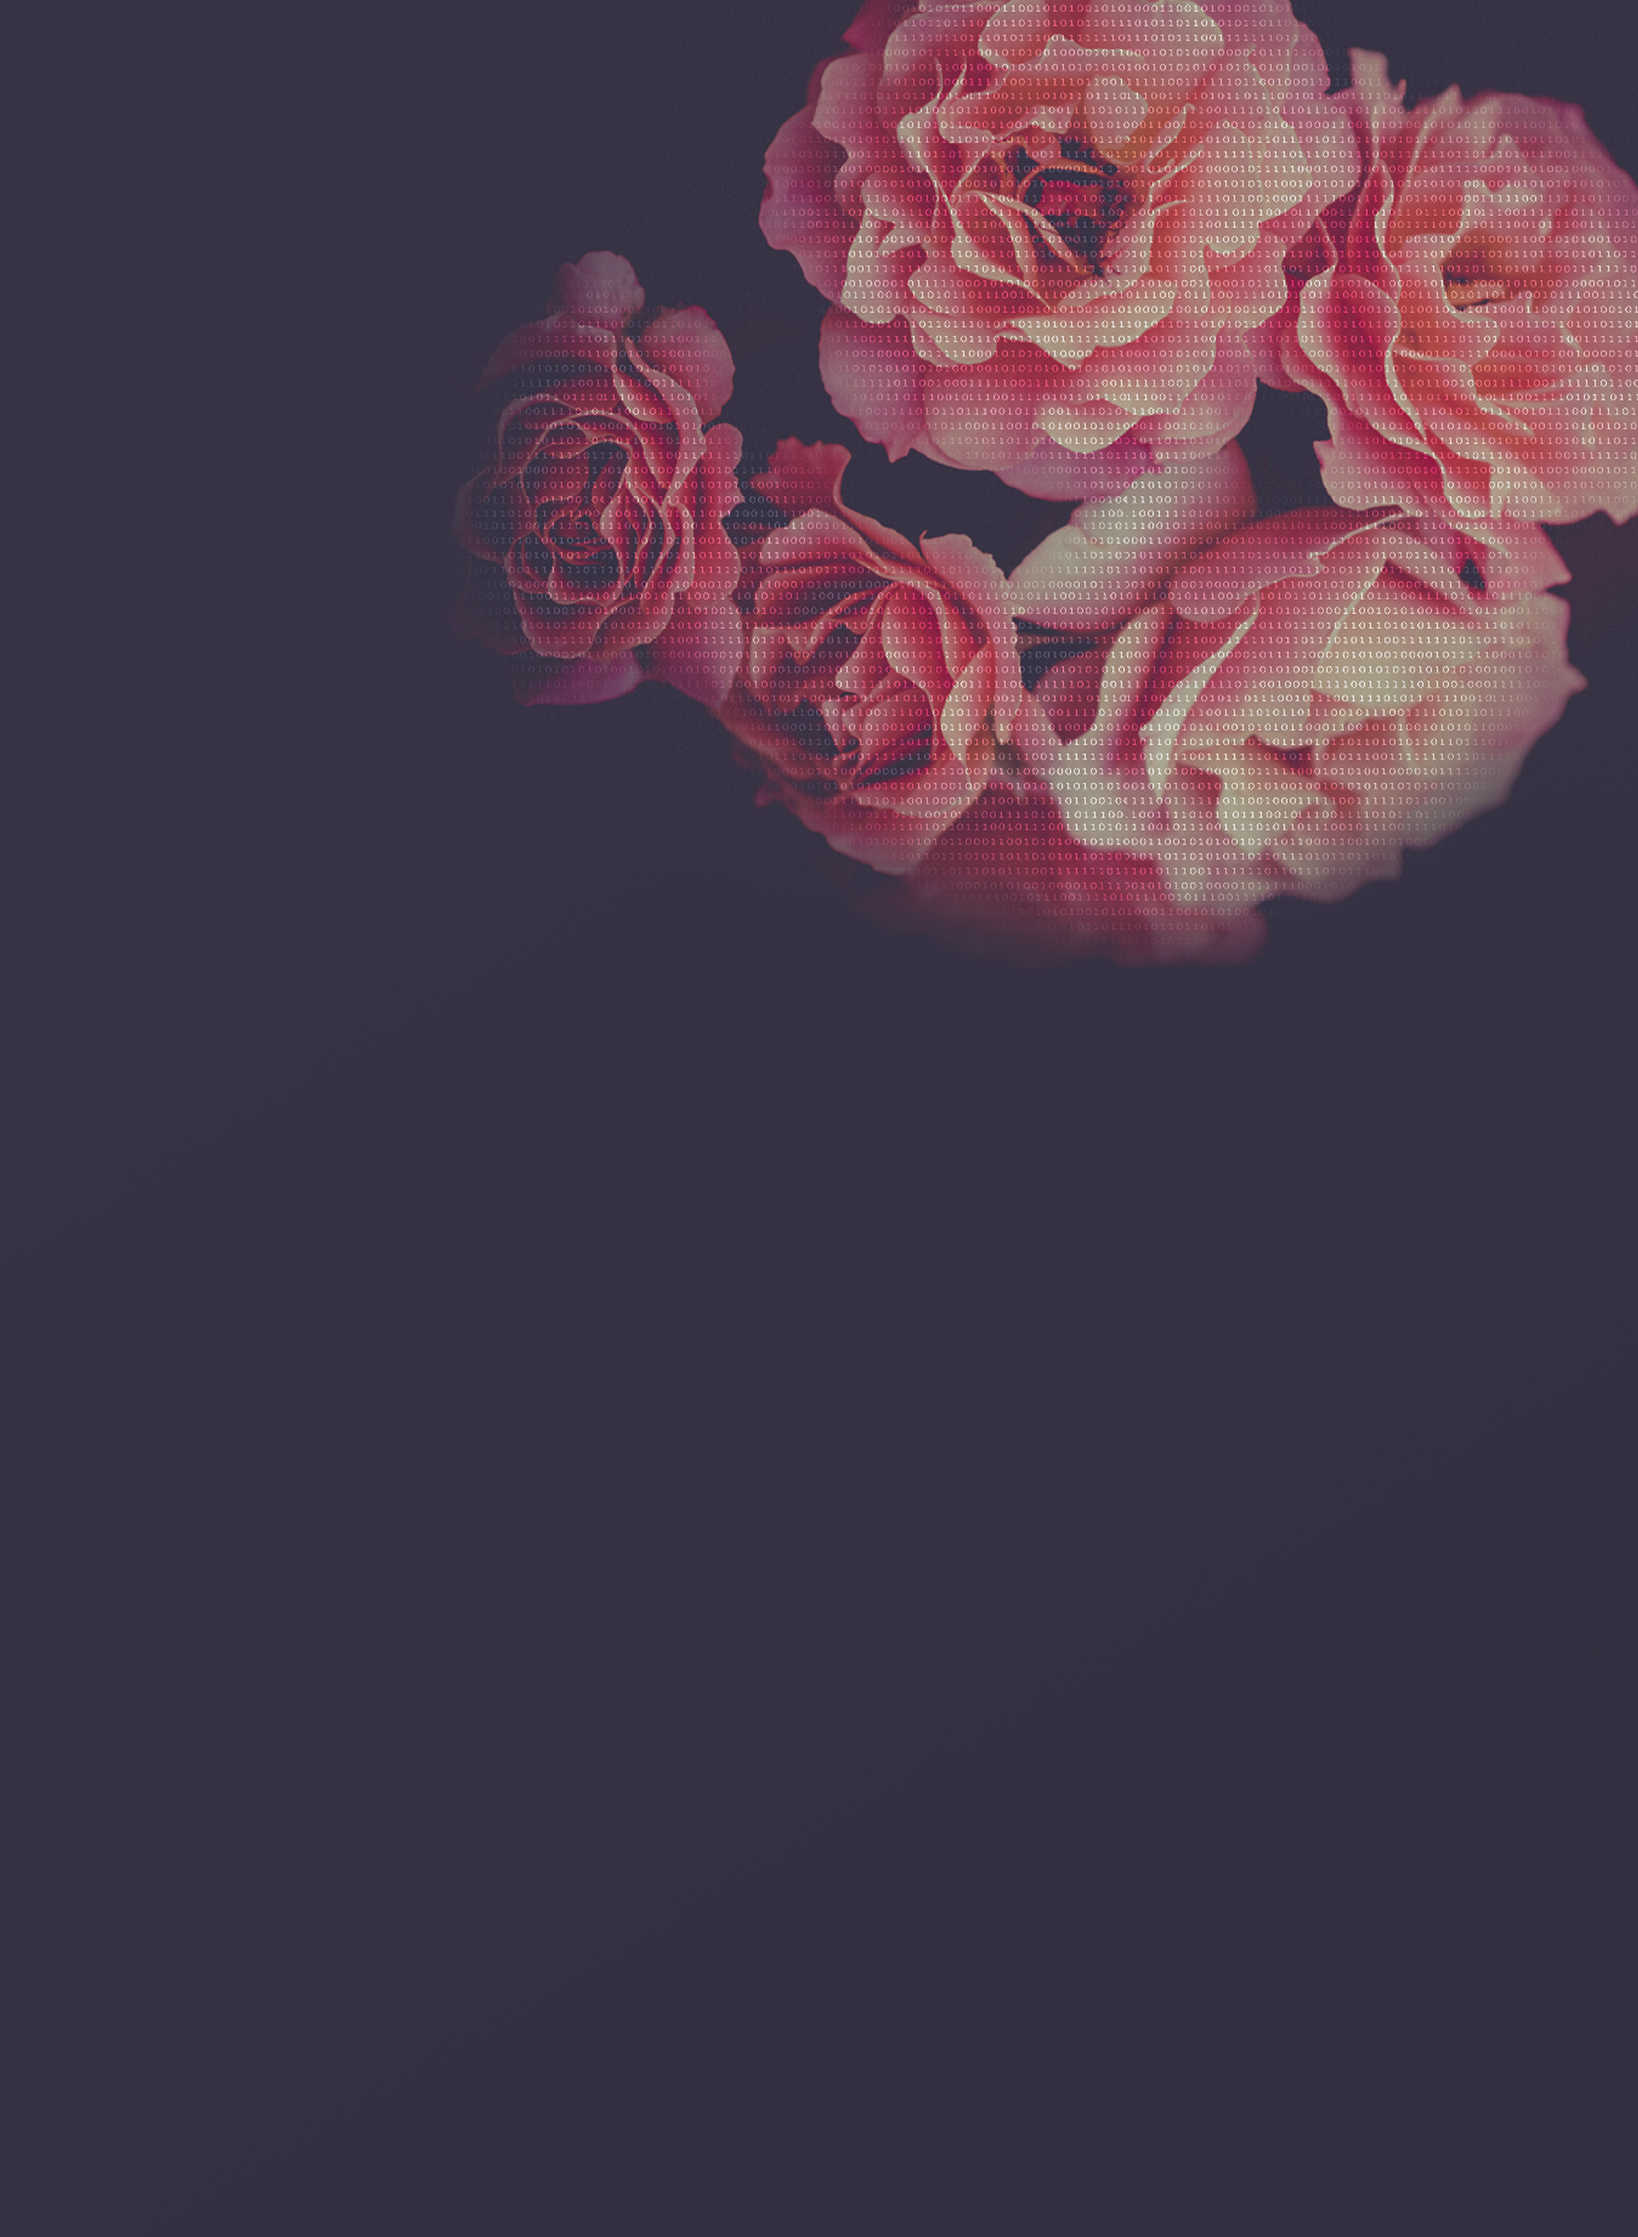
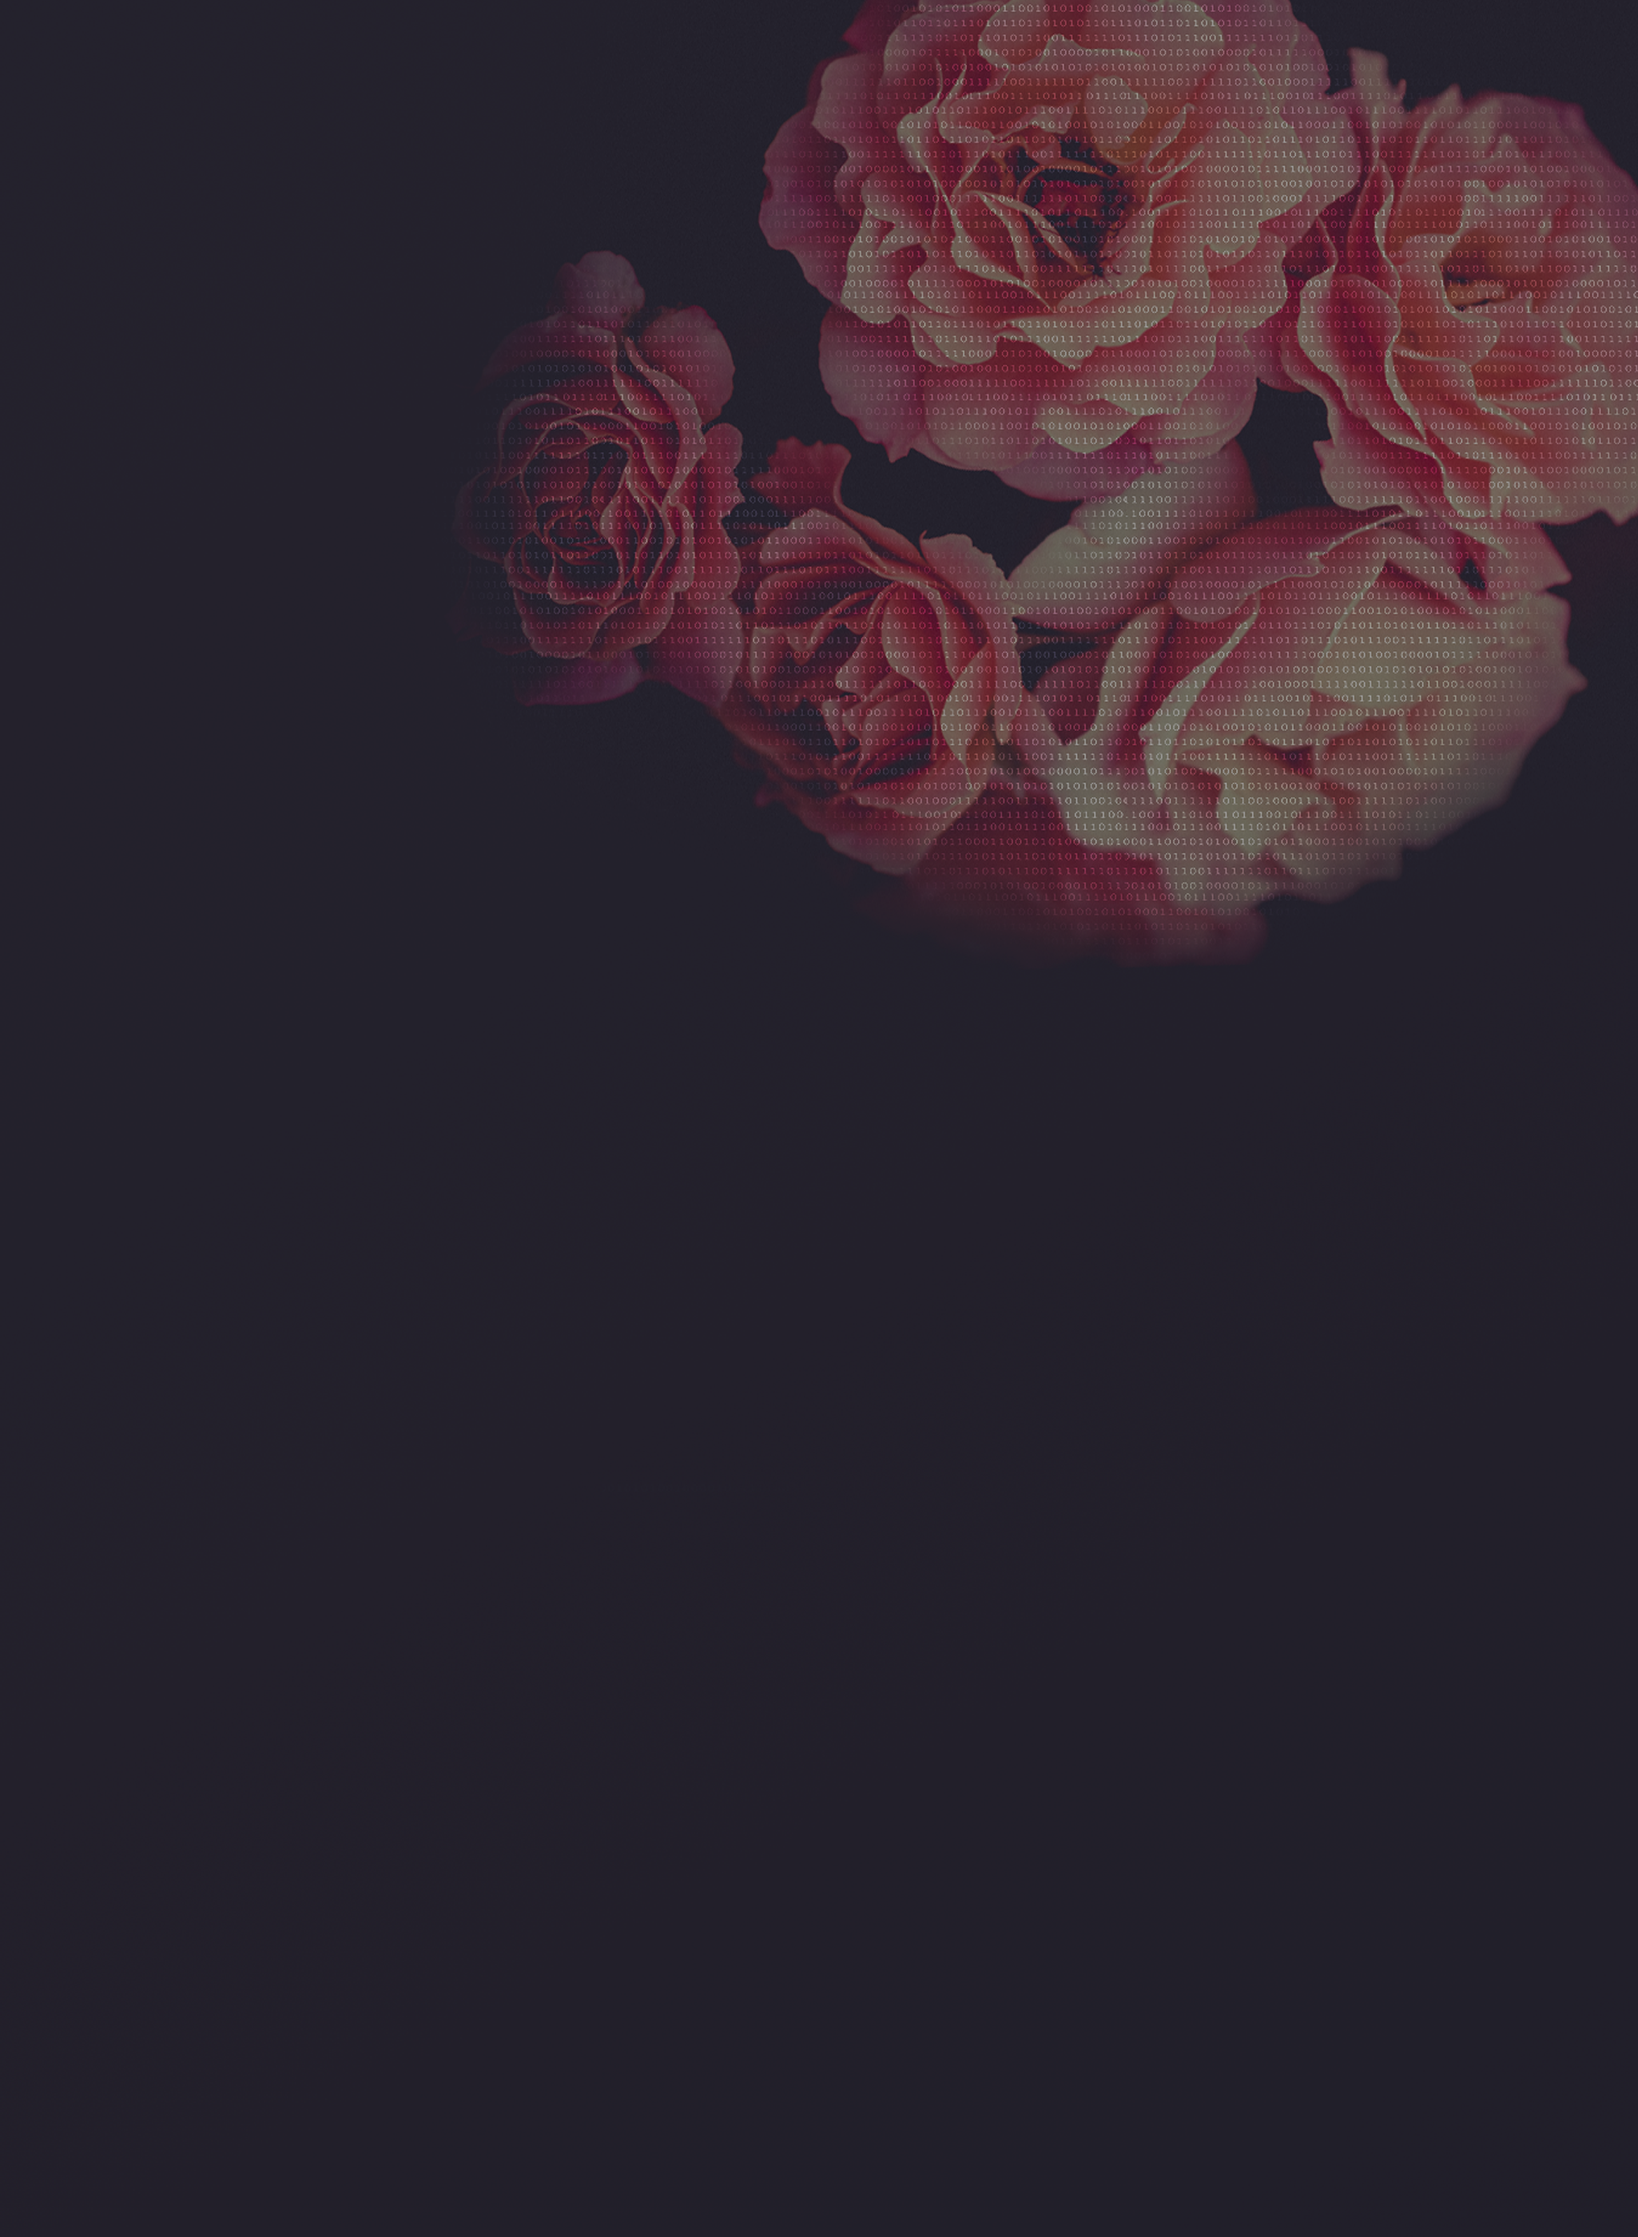
updated darker bkgd, a title for contact

Changed region(s): [[0.281, 0.0, 1.0, 0.435]]

diff --git a/index.html b/index.html
@@ -69,6 +69,7 @@
 
             <section class="contact">
                 <div class="container">
+                    <h3>Contact Me</h3>
                     <form action="https://mailthis.to/tortorakate@gmail.com" 
                           method="POST">
                         <div class="form-group">

diff --git a/css/style.css b/css/style.css
@@ -378,6 +378,10 @@ a:hover {
 
 .contact {
   padding-top: 5rem;
+  padding-bottom: 5rem;
+}
+.contact h3 {
+  padding-bottom: 0.5rem;
 }
 
 footer {

diff --git a/css/components/_contact.scss b/css/components/_contact.scss
@@ -1,3 +1,8 @@
 .contact {
     padding-top: 5rem;
+    padding-bottom: 5rem;
+
+    h3{
+        padding-bottom: .5rem;
+    }
 }
